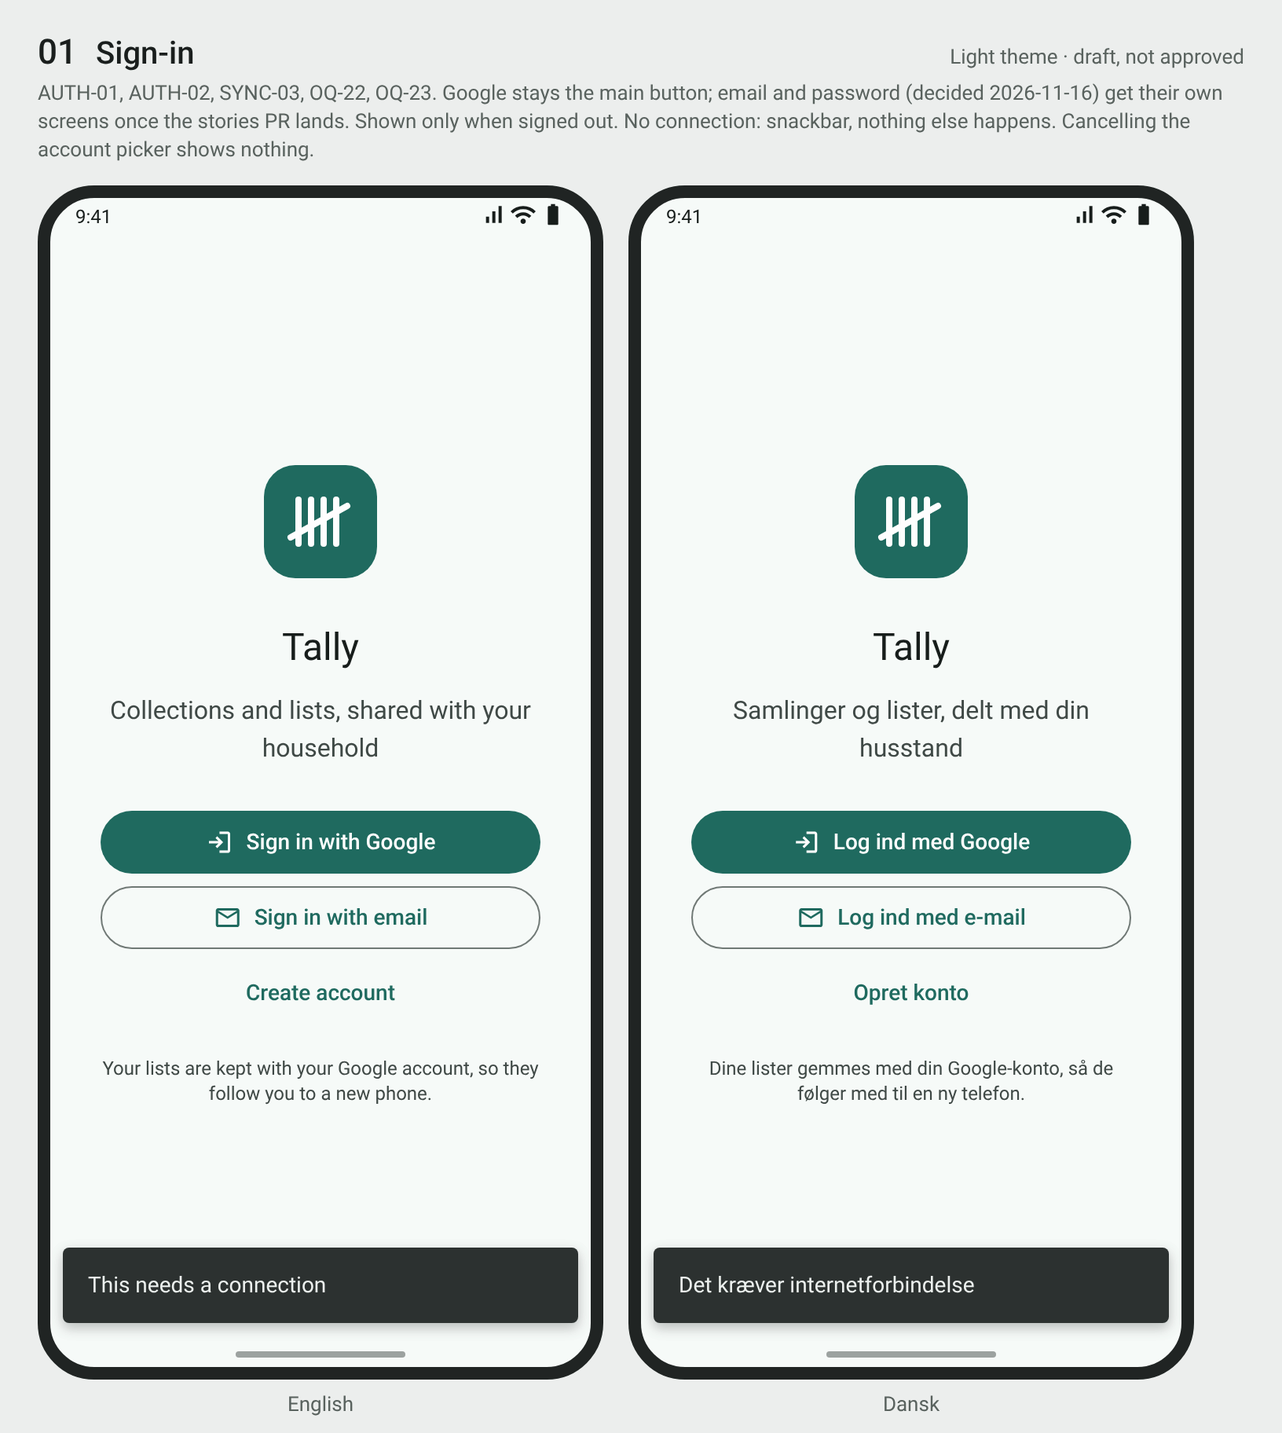
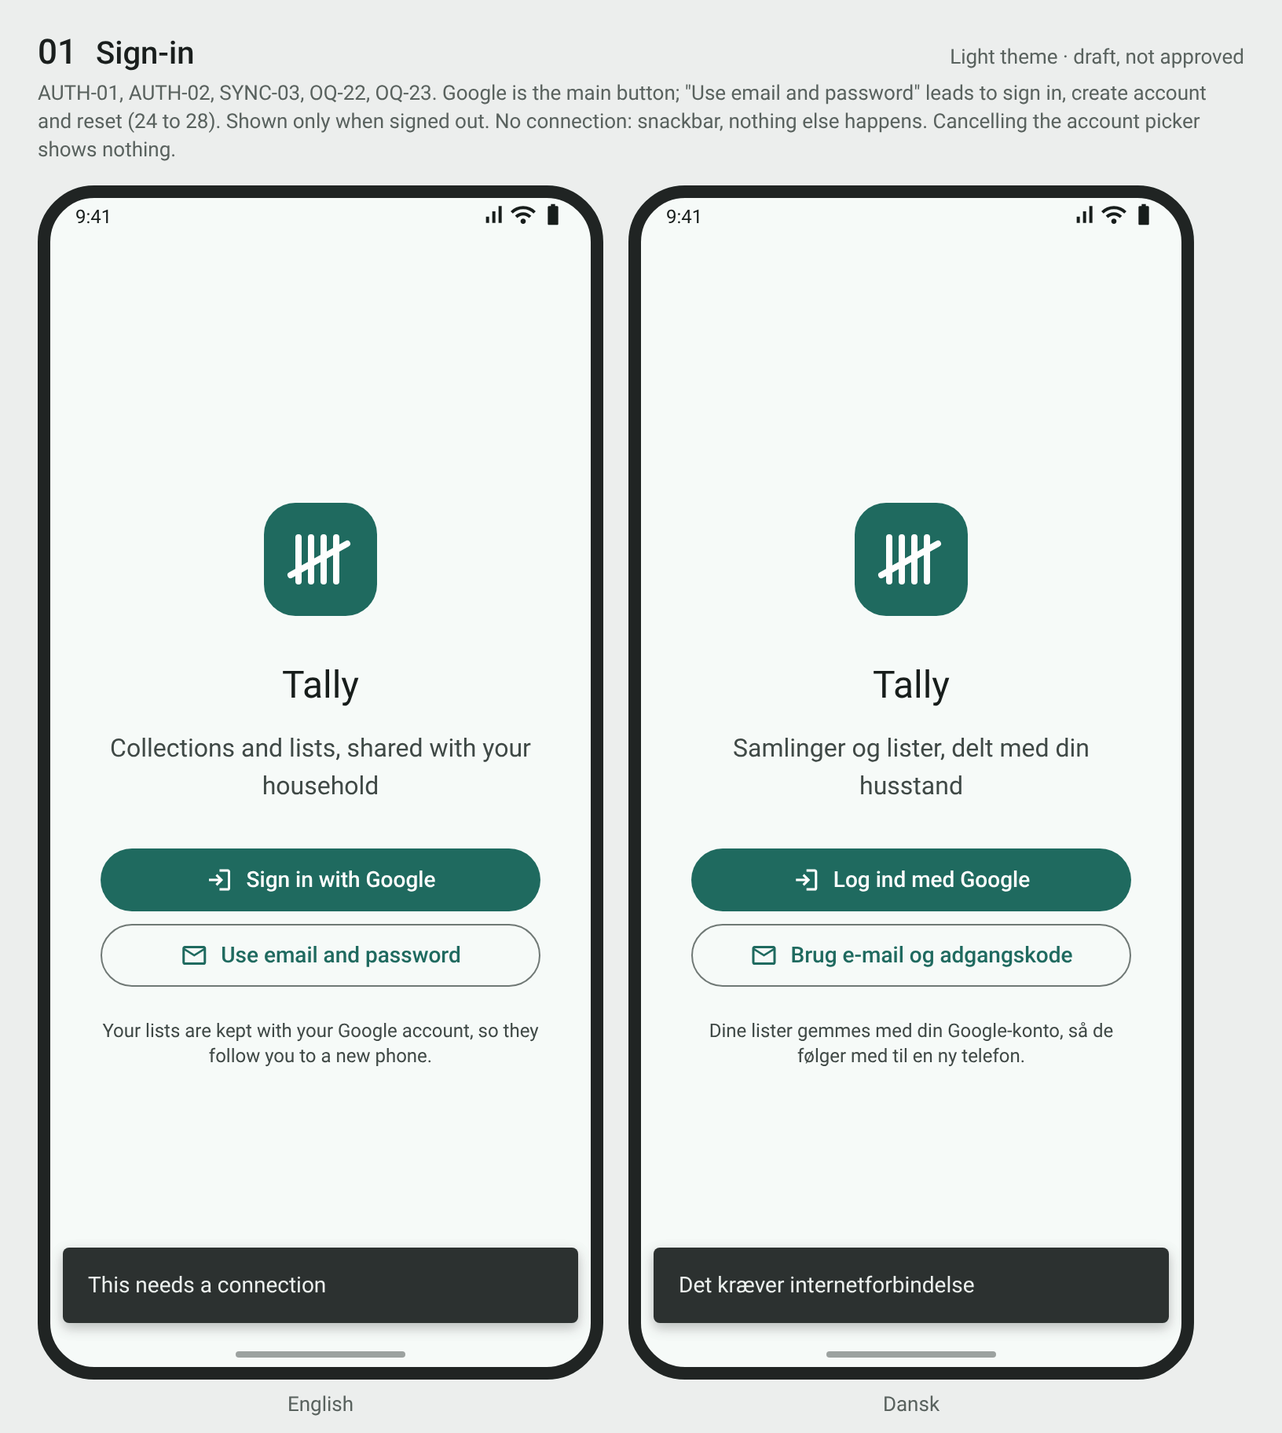
M0.5-03: email and password screens, no in-app language switch, I have it label, share needs a connection
Claude-Session: https://claude.ai/code/session_013srDQgv5DC1PVGJBbQCCoc

Changed region(s): [[0.0625, 0.3125, 0.4375, 0.7812], [0.5312, 0.3125, 0.9062, 0.7812], [0.0312, 0.0625, 0.9375, 0.125]]

diff --git a/docs/product/wireframes/wireframes.html b/docs/product/wireframes/wireframes.html
@@ -226,7 +226,19 @@ const S = {
     noItems: 'No items yet',
     listType: 'List type', plainList: 'Plain list', plainNote: 'Items with a name, sorted by name', collection: 'Collection',
     collectionNote: 'Items with release and re-release year, sorted by year', typeFixed: 'The type cannot be changed later.',
-    signInEmail: 'Sign in with email', createAccount: 'Create account',
+    signInEmail: 'Use email and password', createAccount: 'Create account', email: 'Email', password: 'Password',
+    signInBtn: 'Sign in', forgot: 'Forgot password?', wrongCreds: 'Wrong email or password', tooMany: 'Too many attempts, try again later',
+    pwRule: 'At least 12 characters', pwShort: 'Use at least 12 characters', noAccount: 'No account yet?',
+    checkEmail: 'Check your email', checkEmailBody: e => `We sent a link to ${e}. Open it, then tap Continue.`,
+    cont: 'Continue', sendAgain: 'Send again', notVerified: 'Your email is not verified yet',
+    resetTitle: 'Reset password', resetBody: 'Enter your email. We will send a link to choose a new password.', sendLink: 'Send link',
+    resetSent: 'If an account exists for this email, we sent an email with a link.',
+    twoStep: 'Two-step verification', off: 'Off', tsQ: 'Turn on two-step verification?',
+    tsBody: 'Each time you sign in with your password, you also enter a code from an authenticator app. If you lose your authenticator app, you may lose access to your account.',
+    tsSetup: 'Scan the QR code with your authenticator app, or enter the key. Then enter the 6-digit code it shows.',
+    key: 'Key', code: 'Code', turnOn: 'Turn on', codeTitle: 'Enter code', codeBody: 'Open your authenticator app and enter the 6-digit code for Tally.',
+    verify: 'Verify', changePw: 'Change password', currentPw: 'Current password', newPw: 'New password',
+    changePwNote: 'To keep your account safe, sign in again with your current password first.', iHaveIt: 'I have it',
     newList: 'New list', listName: 'List name', enterName: 'Enter a name', cancel: 'Cancel', create: 'Create',
     showMissing: 'Show only missing', addItem: 'Add item', reRelease: 'Re-release', reReleased: 'Re-release',
     offline: 'Offline: changes are sent when you are online again', pending: n => n === 1 ? '1 waiting' : `${n} waiting`,
@@ -273,7 +285,19 @@ const S = {
     noItems: 'Ingen ting endnu',
     listType: 'Listetype', plainList: 'Almindelig liste', plainNote: 'Ting med et navn, sorteret efter navn', collection: 'Samling',
     collectionNote: 'Ting med udgivelses- og genudgivelsesår, sorteret efter år', typeFixed: 'Typen kan ikke ændres senere.',
-    signInEmail: 'Log ind med e-mail', createAccount: 'Opret konto',
+    signInEmail: 'Brug e-mail og adgangskode', createAccount: 'Opret konto', email: 'E-mail', password: 'Adgangskode',
+    signInBtn: 'Log ind', forgot: 'Glemt adgangskode?', wrongCreds: 'Forkert e-mail eller adgangskode', tooMany: 'For mange forsøg. Prøv igen senere',
+    pwRule: 'Mindst 12 tegn', pwShort: 'Brug mindst 12 tegn', noAccount: 'Har du ingen konto?',
+    checkEmail: 'Tjek din e-mail', checkEmailBody: e => `Vi har sendt et link til ${e}. Åbn det, og tryk så på Fortsæt.`,
+    cont: 'Fortsæt', sendAgain: 'Send igen', notVerified: 'Din e-mail er ikke bekræftet endnu',
+    resetTitle: 'Nulstil adgangskode', resetBody: 'Skriv din e-mail. Vi sender et link, så du kan vælge en ny adgangskode.', sendLink: 'Send link',
+    resetSent: 'Hvis der findes en konto til denne e-mail, har vi sendt en e-mail med et link.',
+    twoStep: 'Totrinsbekræftelse', off: 'Fra', tsQ: 'Slå totrinsbekræftelse til?',
+    tsBody: 'Hver gang du logger ind med din adgangskode, skal du også skrive en kode fra en godkendelsesapp. Hvis du mister din godkendelsesapp, kan du miste adgangen til din konto.',
+    tsSetup: 'Scan QR-koden med din godkendelsesapp, eller skriv nøglen. Skriv derefter den 6-cifrede kode, som appen viser.',
+    key: 'Nøgle', code: 'Kode', turnOn: 'Slå til', codeTitle: 'Skriv koden', codeBody: 'Åbn din godkendelsesapp, og skriv den 6-cifrede kode til Tally.',
+    verify: 'Bekræft', changePw: 'Skift adgangskode', currentPw: 'Nuværende adgangskode', newPw: 'Ny adgangskode',
+    changePwNote: 'For at beskytte din konto skal du først logge ind igen med din nuværende adgangskode.', iHaveIt: 'Jeg har den',
     newList: 'Ny liste', listName: 'Listens navn', enterName: 'Skriv et navn', cancel: 'Annuller', create: 'Opret',
     showMissing: 'Vis kun manglende', addItem: 'Tilføj ting', reRelease: 'Genudgivet', reReleased: 'Genudgivet',
     offline: 'Offline: ændringer sendes, når du er online igen', pending: n => `${n} venter`,
@@ -356,9 +380,9 @@ const snack = (text, act) => `<div class="snack t-bodyMedium"><span class="txt">
 const dialog = ({ icon, title, body = '', extra = '', acts }) => `<div class="scrim"></div><div class="dialog">${
   icon ? `<div class="hi">${ic(icon)}</div>` : ''}<div class="hd t-headlineSmall">${title}</div>${
   body ? `<div class="t-bodyMedium var">${body}</div>` : ''}${extra}<div class="acts t-labelLarge">${acts}</div></div>`;
-const field = ({ label, value = '', ph = '', state = '', caret = false, trail = '' }) =>
+const field = ({ label, value = '', ph = '', state = '', caret = false, trail = '', icon = '' }) =>
   `<div class="field ${state} t-bodyLarge"><span class="lbl t-bodySmall">${label}</span><span>${value || `<span class="ph">${ph}</span>`}${
-    caret ? '<span class="caret"></span>' : ''}</span>${trail ? `<span class="trail">${ic(trail)}</span>` : ''}</div>`;
+    caret ? '<span class="caret"></span>' : ''}</span>${trail ? `<span class="trail">${ic(trail)}</span>` : icon ? `<span class="trail" style="color:var(--onSurfaceVariant)">${ic(icon)}</span>` : ''}</div>`;
 const support = (t, err) => `<div class="support t-bodySmall ${err ? 'err' : ''}">${t}</div>`;
 const offline = (s, n) => `<div class="offline t-bodySmall">${ic('cloud_off')}<span class="txt">${s.offline}</span><span class="pending t-labelMedium">${s.pending(n)}</span></div>`;
 const logo = () => `<div class="logo"><svg width="44" height="40" viewBox="0 0 44 40" aria-hidden="true">
@@ -378,6 +402,7 @@ const sheetItem = (s, { title, name, y, r, yErr = false, rErr = false, focus = '
     <div>${field({ label: s.releaseYear, value: y, state: yErr ? 'err' : focus === 'y' ? 'focus' : '', caret: focus === 'y', trail: yErr ? 'error' : '' })}${support(yErr ? s.yearRange : s.optional, yErr)}</div>
     <div>${field({ label: s.reReleaseYear, value: r, state: rErr ? 'err' : focus === 'r' ? 'focus' : '', caret: focus === 'r', trail: rErr ? 'error' : '' })}${support(rErr ? s.yearRange : s.optional, rErr)}</div>
   </div>`}
+  ${edit ? `<div class="row" style="padding:var(--sp-xs) 0;gap:var(--sp-m)"><span style="margin-left:var(--sp-m)">${cb(true)}</span><span class="t-bodyLarge">${s.iHaveIt}</span></div>` : ''}
   <div class="acts t-labelLarge">${edit ? `<span class="btn text danger" style="margin-right:auto">${ic('delete')}${s.remove}</span><span class="btn text">${s.cancel}</span><span class="btn filled">${s.save}</span>`
     : `<span class="btn text">${s.done}</span><span class="btn filled">${s.add}</span>`}</div>
   ${kbd ? `<div class="kbd">${['1', '2', '3', '4', '5', '6', '7', '8', '9', '', '0', ic('backspace')].map(k => `<span>${k}</span>`).join('')}</div>` : ''}
@@ -386,12 +411,25 @@ const sheetItem = (s, { title, name, y, r, yErr = false, rErr = false, focus = '
 const radio = (on, label, note) => `<div class="row" style="padding:var(--sp-xs) 0;gap:var(--sp-xs);align-items:flex-start"><span class="icon" style="color:var(--${on ? 'primary' : 'onSurfaceVariant'})">${ic(on ? 'radio_button_checked' : 'radio_button_unchecked', on ? 'fill' : '')}</span><div class="txt" style="padding-top:var(--sp-m)"><div class="t-bodyLarge">${label}</div><div class="t-bodySmall var">${note}</div></div></div>`;
 const typeChoice = s => `<div class="t-labelLarge var" style="margin-top:var(--sp-l)">${s.listType}</div>${radio(true, s.plainList, s.plainNote)}${radio(false, s.collection, s.collectionNote)}<div class="t-bodySmall var">${s.typeFixed}</div>`;
 
+const dots = n => '\u2022'.repeat(n);
+const pw = (label, n, o = {}) => field({ label, value: n ? dots(n) : '', icon: o.trail ? '' : 'visibility', ...o });
+const auth = (title, body, inner) => `${topbar(title, { back: true })}<div style="padding:0 var(--sp-l);display:flex;flex-direction:column;gap:var(--sp-s)">${
+  body ? `<div class="t-bodyMedium var" style="margin-bottom:var(--sp-s)">${body}</div>` : ''}${inner}</div>`;
+const qr = () => { let r = ''; let x = 7;
+  for (let i = 0; i < 21; i++) for (let j = 0; j < 21; j++) { x = (x * 1103515245 + 12345) & 0x7fffffff;
+    const fin = (a, b) => i >= a && i < a + 7 && j >= b && j < b + 7;
+    const inF = fin(0, 0) || fin(0, 14) || fin(14, 0);
+    const on = inF ? ((i % 14 === 0 || i % 14 === 6 || j % 14 === 0 || j % 14 === 6 || (i % 14 >= 2 && i % 14 <= 4 && j % 14 >= 2 && j % 14 <= 4))) : (x >> 16) & 1;
+    if (on) r += `<rect x="${j}" y="${i}" width="1" height="1"/>`; }
+  return `<svg width="148" height="148" viewBox="-1 -1 23 23" style="background:#fff;border-radius:8px;align-self:center"><g fill="#000">${r}</g></svg>`; };
+const linkRow = (a, b) => `<div class="t-bodyMedium" style="text-align:center;margin-top:var(--sp-s)">${a}</div>${b ? `<div class="t-bodyMedium" style="text-align:center">${b}</div>` : ''}`;
+
 /* ---------- Screens: id, title, story and decision refs, content(strings) ---------- */
 const SCREENS = [
-  { id: '01', t: 'Sign-in', refs: 'AUTH-01, AUTH-02, SYNC-03, OQ-22, OQ-23. Google stays the main button; email and password (decided 2026-11-16) get their own screens once the stories PR lands. Shown only when signed out. No connection: snackbar, nothing else happens. Cancelling the account picker shows nothing.',
+  { id: '01', t: 'Sign-in', refs: 'AUTH-01, AUTH-02, SYNC-03, OQ-22, OQ-23. Google is the main button; "Use email and password" leads to sign in, create account and reset (24 to 28). Shown only when signed out. No connection: snackbar, nothing else happens. Cancelling the account picker shows nothing.',
     f: s => `<div class="center">${logo()}<div class="t-headlineSmall" style="margin-top:var(--sp-l)">Tally</div>
       <div class="t-bodyLarge var">${s.appTag}</div>
-      <div class="stack"><span class="btn filled wide t-labelLarge">${ic('login')}${s.signIn}</span><span class="btn outlined wide t-labelLarge">${ic('mail')}${s.signInEmail}</span><span class="btn text wide t-labelLarge">${s.createAccount}</span></div>
+      <div class="stack"><span class="btn filled wide t-labelLarge">${ic('login')}${s.signIn}</span><span class="btn outlined wide t-labelLarge">${ic('mail')}${s.signInEmail}</span></div>
       <div class="t-bodySmall var" style="margin-top:var(--sp-s)">${s.signInNote}</div></div>${snack(s.needsConnection)}` },
   { id: '02', t: 'Lists, empty', refs: 'LIST-01, VIS-01, OQ-1. First start of a new account.',
     f: s => `${listsBar(s)}<div class="center"><div class="bubble">${ic('checklist')}</div><div class="t-titleLarge">${s.noListsTitle}</div>
@@ -402,13 +440,13 @@ const SCREENS = [
     f: s => `${listsBar(s)}<div class="scroll" style="padding-top:var(--sp-s)">${LISTS.map(l => listRow(s, l)).join('')}</div>${dialog({
       title: s.newList, extra: `<div style="margin-top:var(--sp-s)">${field({ label: s.listName, state: 'err', trail: 'error' })}${support(s.enterName, true)}</div>${typeChoice(s)}`,
       acts: `<span class="btn text">${s.cancel}</span><span class="btn text">${s.create}</span>` })}` },
-  { id: '05', t: 'Open list, collection', refs: 'Collection list. ITEM-04, ITEM-05, VIS-03, OQ-8 (release year, then name), OQ-9 ("12 of 30" at the top). Tap the box: I have it. Tap the row: edit.',
+  { id: '05', t: 'Open list, collection', refs: 'Collection list. ITEM-04, ITEM-05, VIS-03, OQ-8 (release year, then name), OQ-9 ("12 of 30" at the top). The box is always "I have it" / "Jeg har den" (OQ-7; its accessible label). Ticked items stay in place. Items without a release year come last. Tap the row: edit.',
     f: s => openList(s) },
   { id: '06', t: 'Show only missing, offline', refs: 'OQ-8 filter, OQ-14 offline bar with waiting changes, SYNC-01. Ticking works offline; the bar goes away when everything is sent.',
     f: s => openList(s, { items: ITEMS.filter(i => !i.c), filterOn: true, extraTop: offline(s, 3) }) },
   { id: '07', t: 'Add item, collection, year out of range', refs: 'ITEM-01, OQ-6, OQ-19. Both years optional, any order, 1900 to this year + 50. The sheet stays open for the next item.',
     f: s => openList(s, { fabOn: false, overlay: sheetItem(s, { title: s.addItem, name: 'Candle', y: '1992', r: '1890', rErr: true, focus: 'r', kbd: true }) }) },
-  { id: '08', t: 'Edit item', refs: 'ITEM-02, ITEM-03. Clearing a year removes it; clearing the name keeps the old one with an error. Remove is here.',
+  { id: '08', t: 'Edit item', refs: 'ITEM-02, ITEM-03. Clearing a year removes it; clearing the name keeps the old one with an error. Remove is here, and the "I have it" box with its label.',
     f: s => openList(s, { fabOn: false, overlay: sheetItem(s, { title: s.editItem, name: 'Star', y: '1985', r: '2015', edit: true }) }) },
   { id: '09', t: 'Item removed, undo', refs: 'ITEM-03, OQ-10: no confirmation, undo in the snackbar. The same snackbar style carries the SYNC-02 messages.',
     f: s => openList(s, { items: ITEMS.filter(i => i.n !== 'Heart'), fabOn: false, overlay: snack(s.removed('Heart'), s.undo) }) },
@@ -421,7 +459,7 @@ const SCREENS = [
   { id: '11', t: 'Delete list', refs: 'LIST-04, OQ-10: confirmation first, naming the list and its number of items.',
     f: s => openList(s, { overlay: dialog({ icon: 'delete', title: s.deleteListQ, body: s.deleteListBody('Christmas mobiles', 30),
       acts: `<span class="btn text">${s.cancel}</span><span class="btn text danger">${s.delete}</span>` }) }) },
-  { id: '12', t: 'Share with household', refs: 'VIS-02, VIS-04. Creator of a private list who is in a household. Needs a connection? (question in the PR).',
+  { id: '12', t: 'Share with household', refs: 'VIS-02, VIS-04. Creator of a private list who is in a household. Sharing and stopping sharing need a connection (33).',
     f: s => `${topbar('Board games', { back: true, actions: iconBtn('more_vert') })}<div class="center"></div>${dialog({ icon: 'group_add', title: s.shareQ(HH), body: s.shareBody,
       acts: `<span class="btn text">${s.cancel}</span><span class="btn text">${s.shareBtn}</span>` })}` },
   { id: '13', t: 'Open list, empty', refs: 'ITEM-05, VIS-01. Progress line shows "No items yet" until the first item.',
@@ -453,10 +491,11 @@ const SCREENS = [
   { id: '17', t: 'Invite link does not work', refs: 'HH-03, SYNC-03. The same layout says "leave your household first" and "this needs a connection", each with its own text.',
     f: s => `${topbar('', { close: true })}<div class="center"><div class="bubble">${ic('link_off')}</div><div class="t-titleLarge">${s.linkDead}</div>
       <div class="t-bodyMedium var">${s.linkDeadBody}</div><div class="stack"><span class="btn tonal wide t-labelLarge">${s.toLists}</span></div></div>` },
-  { id: '18', t: 'Account', refs: 'AUTH-03, AUTH-04, LANG-02. Language row: in the app or only the Android setting is still OQ-12. Sign out removes the local copy (OQ-13, assumed).',
+  { id: '18', t: 'Account', refs: 'AUTH-03, AUTH-04, AUTH-09, OQ-31. Password account shown; a Google account has no password rows. No language row: v1 uses only Android per-app language (OQ-12). Sign out removes the local copy (OQ-13, assumed).',
     f: s => `${topbar(s.account, { back: true })}<div class="row" style="padding:var(--sp-l)"><span class="avatar lg">S</span><div class="txt"><div class="t-titleMedium">Sam Jensen</div><div class="t-bodyMedium var">sam@example.com</div></div></div>
       <div class="divider"></div>
-      <div class="row">${ic('translate', 'lead')}<div class="txt"><div class="t-bodyLarge">${s.language}</div><div class="t-bodyMedium var">${s.phoneSetting}</div></div></div>
+      <div class="row">${ic('password', 'lead')}<div class="txt t-bodyLarge">${s.changePw}</div>${ic('chevron_right', 'lead')}</div>
+      <div class="row">${ic('phonelink_lock', 'lead')}<div class="txt"><div class="t-bodyLarge">${s.twoStep}</div><div class="t-bodyMedium var">${s.off}</div></div>${ic('chevron_right', 'lead')}</div>
       <div class="row">${ic('home', 'lead')}<div class="txt"><div class="t-bodyLarge">${s.household}</div><div class="t-bodyMedium var">${HH}</div></div>${ic('chevron_right', 'lead')}</div>
       <div class="divider"></div>
       <div class="row">${ic('logout', 'lead')}<div class="txt"><div class="t-bodyLarge">${s.signOut}</div><div class="t-bodyMedium var">${s.signOutNote}</div></div></div>
@@ -476,6 +515,40 @@ const SCREENS = [
     f: s => openList(s, { l: LISTS[1], items: PLAIN }) },
   { id: '23', t: 'Add item, plain list', refs: 'ITEM-01 for a plain list: the name only; the sheet stays open for the next item. Edit (08) is the same without years.',
     f: s => openList(s, { l: LISTS[1], items: PLAIN, fabOn: false, overlay: sheetItem(s, { title: s.addItem, name: 'Kaffeb', focus: 'n', plain: true }) }) },
+  { id: '24', t: 'Sign in with email, wrong email or password', refs: 'AUTH-07. One message that never says which part was wrong or whether the account exists. No connection: "This needs a connection".',
+    f: s => auth(s.signInBtn, '', `${field({ label: s.email, value: 'sam@example.com' })}${pw(s.password, 14, { state: 'err', trail: 'error' })}${support(s.wrongCreds, true)}
+      <span class="btn filled wide t-labelLarge" style="margin-top:var(--sp-l)">${s.signInBtn}</span>${linkRow(`<span class="btn text t-labelLarge">${s.forgot}</span>`, `<span class="var">${s.noAccount}</span> <span class="btn text t-labelLarge">${s.createAccount}</span>`)}`) },
+  { id: '25', t: 'Sign in with email, too many attempts', refs: 'AUTH-07, AUTH-09. After many failed attempts (also wrong codes): the message replaces the error until the server allows tries again.',
+    f: s => auth(s.signInBtn, '', `${field({ label: s.email, value: 'sam@example.com' })}${pw(s.password, 14)}
+      <div class="row card" style="margin:var(--sp-s) 0;background:var(--errorContainer);color:var(--onErrorContainer)">${ic('timer')}<div class="txt t-bodyMedium">${s.tooMany}</div></div>
+      <span class="btn filled wide t-labelLarge" style="opacity:.38">${s.signInBtn}</span>${linkRow(`<span class="btn text t-labelLarge">${s.forgot}</span>`)}`) },
+  { id: '26', t: 'Create account, password too short', refs: 'AUTH-05, OQ-26: at least 12 characters and no other rules. Invalid email: field error. An existing email never makes a second account (AUTH-10).',
+    f: s => auth(s.createAccount, '', `${field({ label: s.email, value: 'kim@example.com' })}${pw(s.password, 8, { state: 'err', trail: 'error', caret: true })}${support(s.pwShort, true)}
+      <span class="btn filled wide t-labelLarge" style="margin-top:var(--sp-l)">${s.createAccount}</span>`) + '<div style="flex:1"></div>' },
+  { id: '27', t: 'Verify email', refs: 'AUTH-06. Continue before the link is opened: snackbar. Send again many times: "Try again later". Unverified users see this screen again at sign-in.',
+    f: s => `${topbar('', {})}<div class="center"><div class="bubble">${ic('mark_email_unread')}</div><div class="t-titleLarge">${s.checkEmail}</div>
+      <div class="t-bodyMedium var">${s.checkEmailBody('kim@example.com')}</div><div class="stack"><span class="btn filled wide t-labelLarge">${s.cont}</span>
+      <span class="btn outlined wide t-labelLarge">${s.sendAgain}</span><span class="btn text wide t-labelLarge">${s.signOut}</span></div></div>${snack(s.notVerified)}` },
+  { id: '28', t: 'Reset password, link sent', refs: 'AUTH-08. The same message whether or not an account exists. The new password follows the 12-character rule on the Firebase default page (OQ-29).',
+    f: s => auth(s.resetTitle, s.resetBody, `${field({ label: s.email, value: 'sam@example.com' })}
+      <span class="btn filled wide t-labelLarge" style="margin-top:var(--sp-s)">${s.sendLink}</span>
+      <div class="row card" style="margin:var(--sp-l) 0 0;background:var(--secondaryContainer);color:var(--onSecondaryContainer)">${ic('mark_email_read')}<div class="txt t-bodyMedium">${s.resetSent}</div></div>`) },
+  { id: '29', t: 'Turn on two-step verification', refs: 'AUTH-09, OQ-24, OQ-28. Optional, password accounts only; asks for a recent sign-in first. The warning names no administrator.',
+    f: s => `${topbar(s.account, { back: true })}${dialog({ icon: 'phonelink_lock', title: s.tsQ, body: s.tsBody,
+      acts: `<span class="btn text">${s.cancel}</span><span class="btn text">${s.cont}</span>` })}` },
+  { id: '30', t: 'Two-step verification setup', refs: 'AUTH-09. QR code and key for an authenticator app; it is on only after a correct code.',
+    f: s => auth(s.twoStep, s.tsSetup, `${qr()}<div class="t-bodySmall var" style="text-align:center">${s.key}</div>
+      <div class="t-bodyLarge" style="text-align:center;letter-spacing:1px;font-family:monospace">JBSW Y3DP EHPK 3PXP</div>
+      ${field({ label: s.code, value: '4821', state: 'focus', caret: true })}<span class="btn filled wide t-labelLarge" style="margin-top:var(--sp-s)">${s.turnOn}</span>`) },
+  { id: '31', t: 'Two-step code at sign-in', refs: 'AUTH-09, AUTH-04. After the password, and when signing in again before deleting the account or changing the password. Wrong code: field error.',
+    f: s => auth(s.codeTitle, s.codeBody, `${field({ label: s.code, value: '', ph: '000 000', state: 'focus', caret: true })}
+      <span class="btn filled wide t-labelLarge" style="margin-top:var(--sp-s)">${s.verify}</span>`) },
+  { id: '32', t: 'Change password', refs: 'OQ-31: changing the password is in v1, after signing in again (plus a code if two-step is on). New password: at least 12 characters.',
+    f: s => auth(s.changePw, s.changePwNote, `${pw(s.currentPw, 14)}${pw(s.newPw, 13, { state: 'focus', caret: true })}${support(s.pwRule)}
+      <span class="btn filled wide t-labelLarge" style="margin-top:var(--sp-l)">${s.changePw}</span>`) },
+  { id: '33', t: 'Share while offline', refs: 'VIS-02, VIS-04, OQ-22 (owner, 2026-11-16): sharing and stopping sharing need a connection; nothing changes. List and item changes still work offline.',
+    f: s => `${topbar('Board games', { back: true, actions: iconBtn('more_vert') })}${offline(s, 1)}<div class="center"><div class="bubble">${ic('playlist_add')}</div>
+      <div class="t-titleLarge">${s.emptyListTitle}</div></div>${snack(s.needsConnection)}` },
 ];
 
 /* ---------- Token plumbing ---------- */
